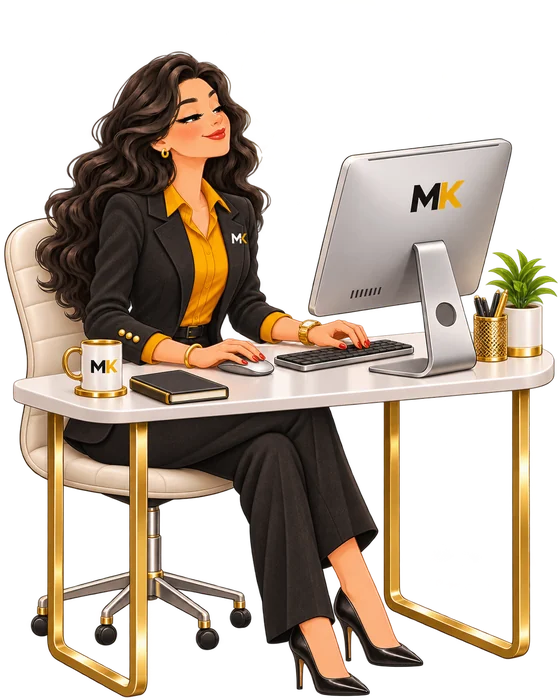
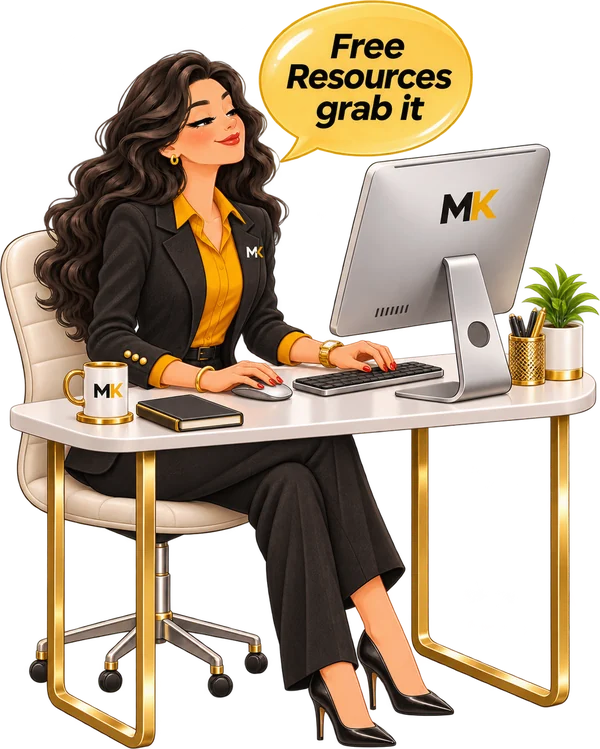
Make Vault illustration static and tighten layout
Claude-Session: https://claude.ai/code/session_01QtgASdNcpX2DkXo8jwDrHr

diff --git a/index.html b/index.html
@@ -92,7 +92,7 @@ footer.site{border-top:1px solid var(--line)}
 
 /* prompt vault signup */
 .vault .wrap{padding-block:0 64px}
-.vbox{display:grid;grid-template-columns:200px minmax(0,1fr) minmax(0,1fr);gap:28px;align-items:center;padding:28px 30px;border:1px solid var(--line);border-radius:20px;background:var(--g)}
+.vbox{display:grid;grid-template-columns:250px minmax(0,1fr) minmax(0,1fr);gap:28px;align-items:center;padding:28px 30px;border:1px solid var(--line);border-radius:20px;background:var(--g)}
 .vbox h2{font-family:var(--display);color:var(--white);font-size:clamp(24px,2.6vw,32px);line-height:1.08;letter-spacing:-0.03em;margin:8px 0 0}
 .vbox p.v{color:var(--muted);font-size:15px;margin:10px 0 0;max-width:46ch}
 .vform{display:flex;flex-wrap:wrap;gap:10px}
@@ -101,23 +101,16 @@ footer.site{border-top:1px solid var(--line)}
 .vform input:focus{outline:none;border-color:var(--mustard)}
 .vform button{flex:1 1 100%;height:48px;border:0;border-radius:24px;background:var(--mustard);color:var(--onyx);font:600 15px var(--body);cursor:pointer;transition:background .25s}
 .vform button:hover{background:var(--champagne)}
-.vnote{flex:1 1 100%;margin:2px 0 0;font-size:12.5px;color:var(--muted)}
+.vnote{flex:1 1 100%;margin:2px 0 0;text-align:center;font-size:12.5px;color:var(--muted)}
 .vslot form{display:flex!important;flex-wrap:wrap;gap:10px;margin:0!important;padding:0!important;background:transparent!important}
 .vslot form>*{margin:0!important}
 .vslot input{flex:1 1 150px}
 .vslot button,.vslot [type=submit]{flex:1 1 100%}
 .vslot a[href*="hostinger"],.vslot [class*="powered" i],.vslot [class*="badge" i]{transform:scale(.8);opacity:.6;margin-top:4px!important}
-.vart{position:relative;width:200px;aspect-ratio:1122/1402;align-self:end;margin-bottom:-6px}
-.vart .desk{position:absolute;inset:0;width:100%;height:100%;animation:vtype 1.1s ease-in-out infinite}
-.vart .bub{position:absolute;left:43%;top:.5%;width:36%;height:auto;transform-origin:10% 100%;animation:vfloat 3.4s ease-in-out infinite;filter:drop-shadow(0 6px 14px rgba(212,167,44,.35))}
-.vart .keys{position:absolute;left:52%;top:43%;width:22%;height:6%;pointer-events:none}
-.vart .keys i{position:absolute;bottom:0;width:5px;height:5px;border-radius:50%;background:var(--champagne);opacity:0;animation:vkey 1.2s ease-out infinite}
-.vart .keys i:nth-child(1){left:10%}.vart .keys i:nth-child(2){left:45%;animation-delay:.4s}.vart .keys i:nth-child(3){left:80%;animation-delay:.8s}
-@keyframes vfloat{0%,100%{transform:translateY(0) rotate(-2deg)}50%{transform:translateY(-10px) rotate(2deg)}}
-@keyframes vtype{0%,100%{transform:translateY(0)}50%{transform:translateY(-1.5px)}}
-@keyframes vkey{0%{transform:translateY(0) scale(.6);opacity:0}25%{opacity:1}100%{transform:translateY(-22px) scale(1);opacity:0}}
-@media(max-width:1000px){.vbox{grid-template-columns:150px minmax(0,1fr) minmax(0,1fr);gap:22px}.vart{width:150px}}
-@media(max-width:760px){.vart{width:170px;justify-self:center;margin-bottom:0}}
+.vart{width:250px;align-self:center}
+.vart img{display:block;width:100%;height:auto}
+@media(max-width:1000px){.vbox{grid-template-columns:160px minmax(0,1fr) minmax(0,1fr);gap:22px}.vart{width:160px}}
+@media(max-width:760px){.vart{width:190px;justify-self:center}}
 @media(max-width:760px){.vbox{grid-template-columns:1fr;padding:22px 20px;gap:18px}}
 
 @media(max-width:900px){
@@ -182,9 +175,7 @@ footer.site{border-top:1px solid var(--line)}
 <section class="vault band" id="vault" aria-labelledby="vault-title">
   <div class="wrap"><div class="vbox">
     <div class="vart" aria-hidden="true">
-      <img class="desk" src="/img/maher/vault-desk.webp" alt="" width="560" height="700" loading="lazy">
-      <span class="keys"><i></i><i></i><i></i></span>
-      <img class="bub" src="/img/maher/vault-bubble.webp" alt="" width="201" height="154" loading="lazy">
+      <img src="/img/maher/vault-desk.webp" alt="" width="600" height="749" loading="lazy">
     </div>
     <div>
       <p class="eyebrow">Free resource</p>
